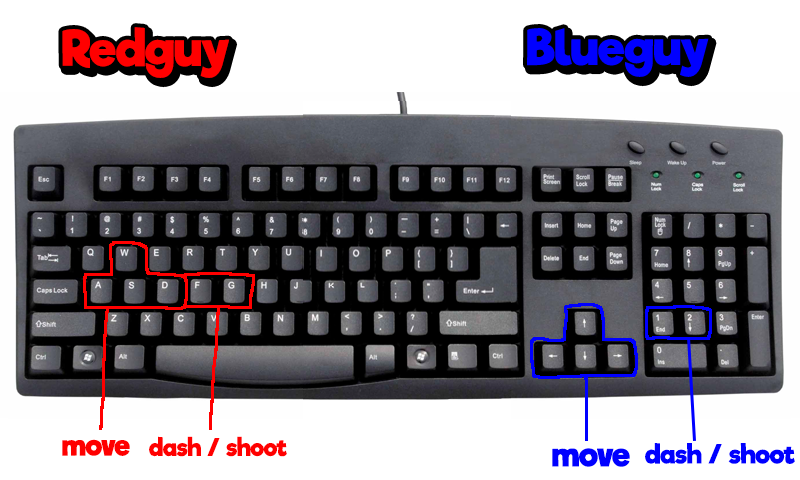
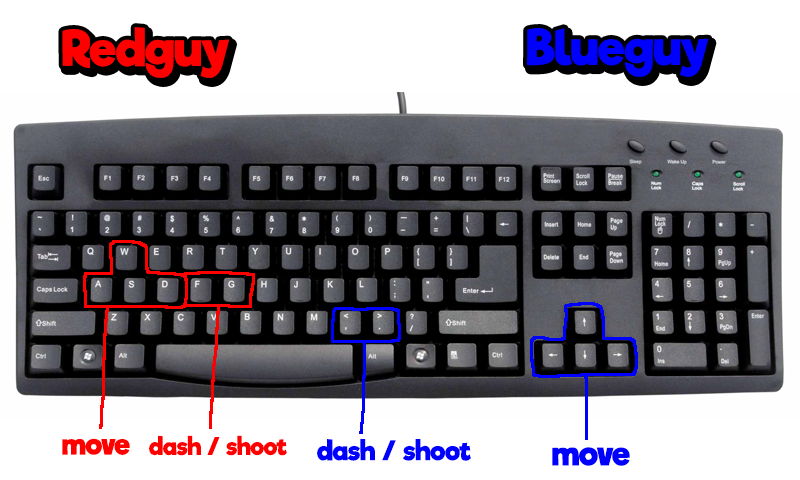
we gaming
yes

diff --git a/Game1.cs b/Game1.cs
@@ -13,6 +13,8 @@ namespace TheGame
         int currentRes = 1;
         int resScale = 1;
         bool escapeKeyWasPressed = false;
+        bool isClicking = false;
+        Point mousePos;
 
         //Declaring Backgrounds
         Texture2D mainMenuSprite;
@@ -61,13 +63,13 @@ namespace TheGame
         bool blueIsDodging = false;
 
         // Declaring rectangles so I can use them in collisions
-        Rectangle redguyRect;
-        Rectangle blueguyRect;
-        Rectangle mainmenuRect;
-        Rectangle singleplayerButtonRect;
-        Rectangle coopButtonRect;
-        Rectangle settingsButtonRect;
-        Rectangle exitButtonRect;
+        public Rectangle redguyRect;
+        public Rectangle blueguyRect;
+        public Rectangle mouseRect;
+        public Rectangle singleplayerButtonRect;
+        public Rectangle coopButtonRect;
+        public Rectangle settingsButtonRect;
+        public Rectangle exitButtonRect;
 
         // Red Guy Controls
         Keys redguyMoveUp = Keys.W;
@@ -83,9 +85,7 @@ namespace TheGame
         Keys blueguyMoveLeft = Keys.Left;
         Keys blueguyMoveRight = Keys.Right;
         Keys blueguyShoot = Keys.OemPeriod;
-        Keys blueguyShoot2 = Keys.NumPad1;
         Keys blueguyDodge = Keys.OemComma;
-        Keys blueguyDodge2 = Keys.NumPad2;
 
         public Game1()
         {
@@ -135,6 +135,13 @@ namespace TheGame
         {
             // TODO: Add your update logic here
             MouseState mouseState = Mouse.GetState();
+            mousePos = new Point(mouseState.X, mouseState.Y);
+            bool clicked = mouseState.LeftButton == ButtonState.Pressed;
+
+            if (mouseState.LeftButton == ButtonState.Released)
+            {
+                isClicking = false;
+            }
 
             if (mouseState.RightButton == ButtonState.Pressed)
             {
@@ -168,9 +175,24 @@ namespace TheGame
 
             if(isInMainMenu == true)
             {
-                if(mouseState.X > 290 * resScale && mouseState.X < 290 * resScale + oneButton.Width * resScale && mouseState.Y > 200 * resScale && mouseState.Y > oneButton.Height* resScale && mouseState.LeftButton == ButtonState.Pressed)
+                if (singleplayerButtonRect.Intersects(mouseRect) && clicked && isClicking == false)
                 {
-                    Debug.WriteLine("poopoo");
+                    isClicking = true;
+                    Debug.WriteLine("singleplayer");
+                }
+                else if (coopButtonRect.Intersects(mouseRect) && clicked && isClicking == false)
+                {
+                    isClicking = true;
+                    Debug.WriteLine("coop");
+                }
+                else if (settingsButtonRect.Intersects(mouseRect) && clicked && isClicking == false)
+                {
+                    isClicking = true;
+                    Debug.WriteLine("settings");
+                }
+                else if (exitButtonRect.Intersects(mouseRect) && clicked)
+                {
+                    Exit();
                 }
             }
 
@@ -186,11 +208,12 @@ namespace TheGame
                 SamplerState.PointClamp
                );
 
+            mouseRect = new Rectangle(mousePos.X, mousePos.Y, 1, 1);
             Rectangle mainmenuRect = new Rectangle(0, 0, mainMenuSprite.Width * resScale, mainMenuSprite.Height * resScale);
-            Rectangle singleplayerButtonRect = new Rectangle(290 * resScale, 200 * resScale, oneButton.Width * resScale, oneButton.Height * resScale);
-            Rectangle coopButtonRect = new Rectangle(290 * resScale, 280 * resScale, oneButton.Width * resScale, oneButton.Height * resScale);
-            Rectangle settingsButtonRect = new Rectangle(5 * resScale, 400 * resScale, oneButton.Width * resScale, oneButton.Height * resScale);
-            Rectangle exitButtonRect = new Rectangle(595 * resScale, 400 * resScale, oneButton.Width * resScale, oneButton.Height * resScale);
+            singleplayerButtonRect = new Rectangle(290 * resScale, 200 * resScale, oneButton.Width * resScale, oneButton.Height * resScale);
+            coopButtonRect = new Rectangle(290 * resScale, 280 * resScale, oneButton.Width * resScale, oneButton.Height * resScale);
+            settingsButtonRect = new Rectangle(5 * resScale, 400 * resScale, oneButton.Width * resScale, oneButton.Height * resScale);
+            exitButtonRect = new Rectangle(595 * resScale, 400 * resScale, oneButton.Width * resScale, oneButton.Height * resScale);
 
             if (isInMainMenu == true)
             {
@@ -199,6 +222,7 @@ namespace TheGame
                 _spriteBatch.Draw(coopButton, coopButtonRect, Color.White);
                 _spriteBatch.Draw(settingsButton, settingsButtonRect, Color.White);
                 _spriteBatch.Draw(exitButton, exitButtonRect, Color.White);
+                _spriteBatch.Draw(oneButton, mouseRect, Color.Transparent);
             }
 
             _spriteBatch.End();
